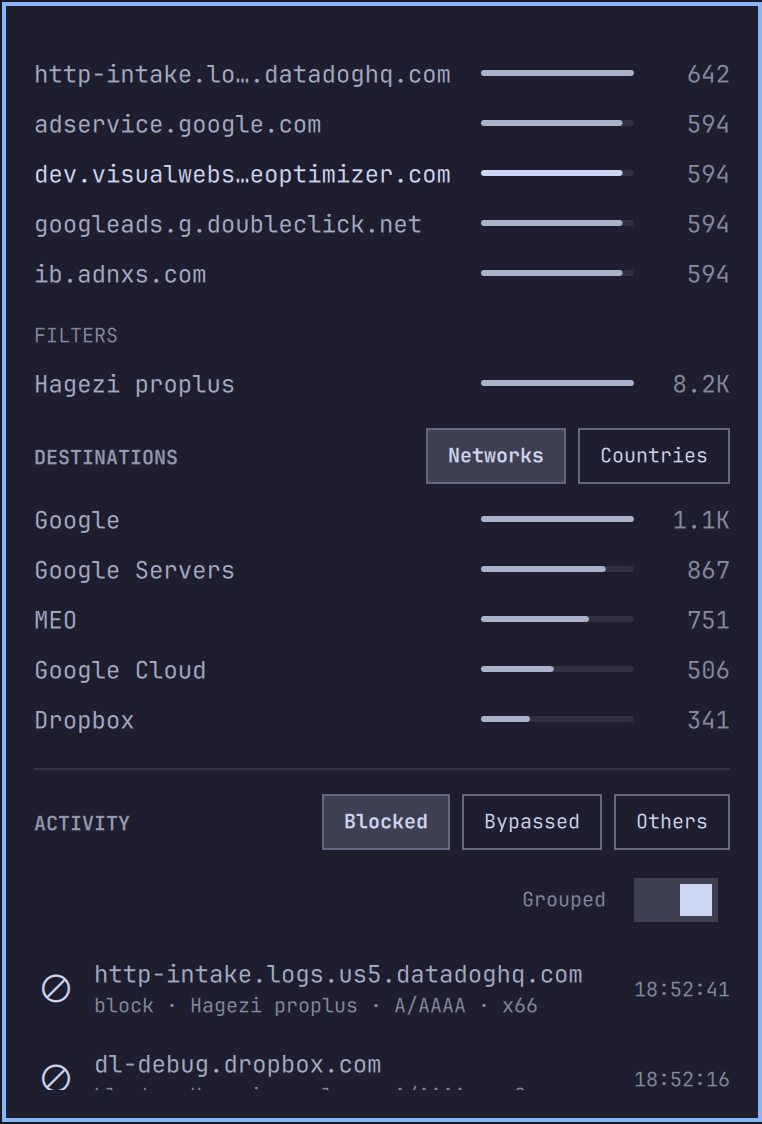
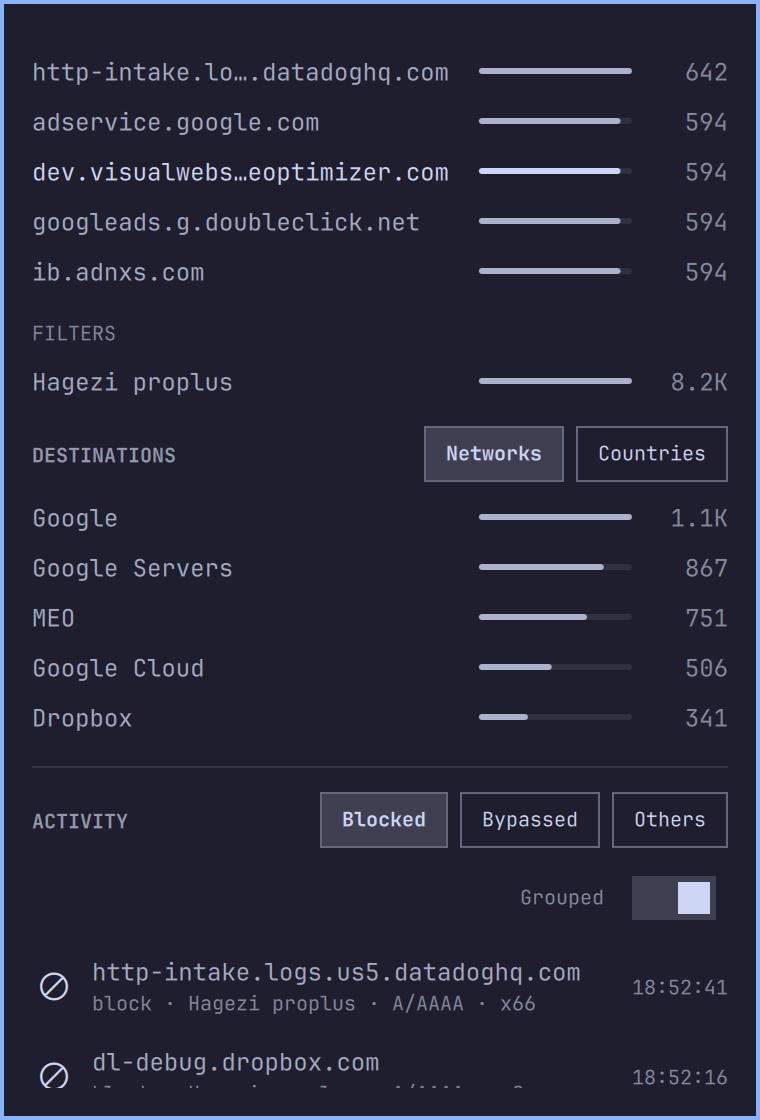
docs: show the rules list, and crop the shots to the panel
Adds a rules screenshot: the `Add` button, a spoof rule with its target, two
bypasses, and a disabled rule struck through.

The earlier two carried a couple of pixels of desktop background outside the
panel's border, which read as a soft edge. All three now start at the border
itself.

Claude-Session: https://claude.ai/code/session_0177rF6TJLf82oAjDxP7JSC8

diff --git a/README.md b/README.md
@@ -69,6 +69,8 @@ nothing takes those as input.
 
 ### Rules
 
+<img src="docs/images/rules.png" alt="The rules list, showing a spoof rule, bypass rules, and a disabled rule struck through" width="380">
+
 `Add` creates a rule, `x` switches the one under the cursor off without deleting it, delete sits
 behind an inline confirmation, and `y` copies the hostname.
 
